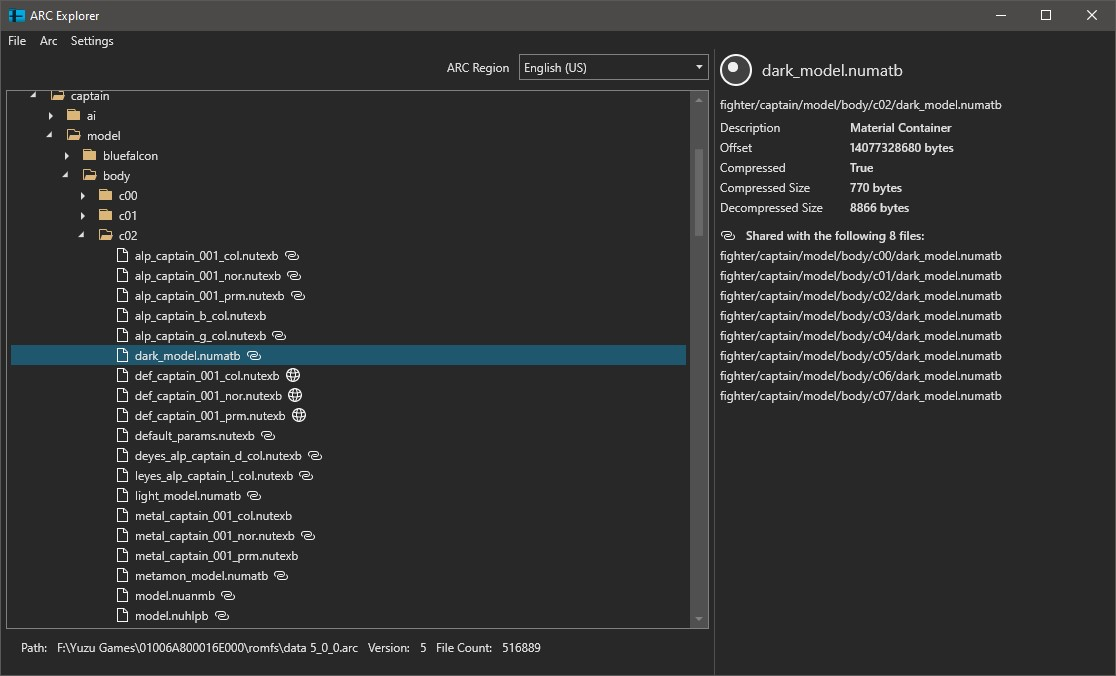
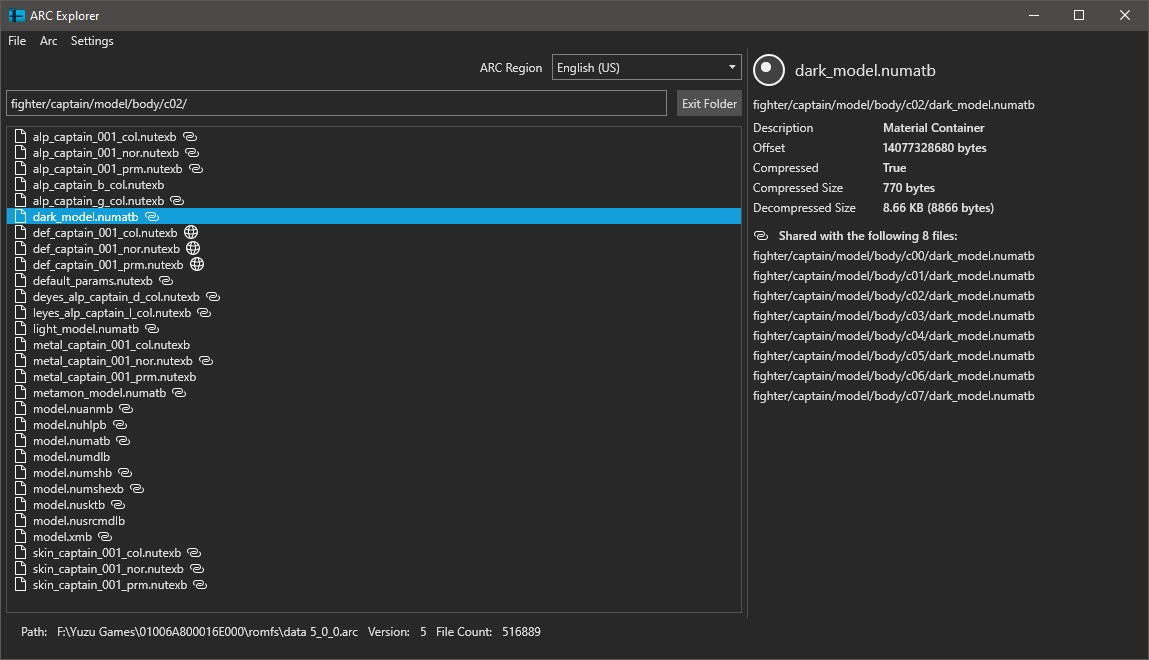
update readme and application image

diff --git a/README.md b/README.md
@@ -14,6 +14,16 @@ On Windows, open the program by double clicking ArcExplorer.exe. On Linux, open 
 ## Opening the data.arc
 Open an ARC file using File > Open ARC or Ctrl + O on the keyboard. The program supports any ARC file from Smash Ultimate version 4.0.0 (Hero DLC) or later. The program also supports opening an ARC file over the network by connecting to the Switch console using the Switch's IP address. All program features work normally when connecting to the ARC file over the network but expect program performance to be slower. Use ArcCross (Windows only) for opening very old ARC versions. 
 
+## Navigation
+Navigating the ARC file can be done with the mouse or the keyboard. Double click a folder to open it. Click the "Exit Folder" button to exit the current folder and go the parent folder. Keyboard shortcuts are listed below. 
+
+| Action | Keys |
+| --- | --- |
+| Enter Selected Folder | Enter, Right Arrow |
+| Move Selection Up | Up Arrow | 
+| Move Selection Down | Down Arrow |
+| Exit Selected Folder | Left Arrow, Alt + Up Arrow |
+
 ## Updating Hashes
 <img src="https://github.com/ScanMountGoat/ArcExplorer/blob/master/hash_update.jpg" align="top" height="auto" width="auto">  
 When the program launches, it will check Github for any hash label updates. If an update is available, a dialog will appear with details on the new commit. Click the update button to download and load the new hashes. 
